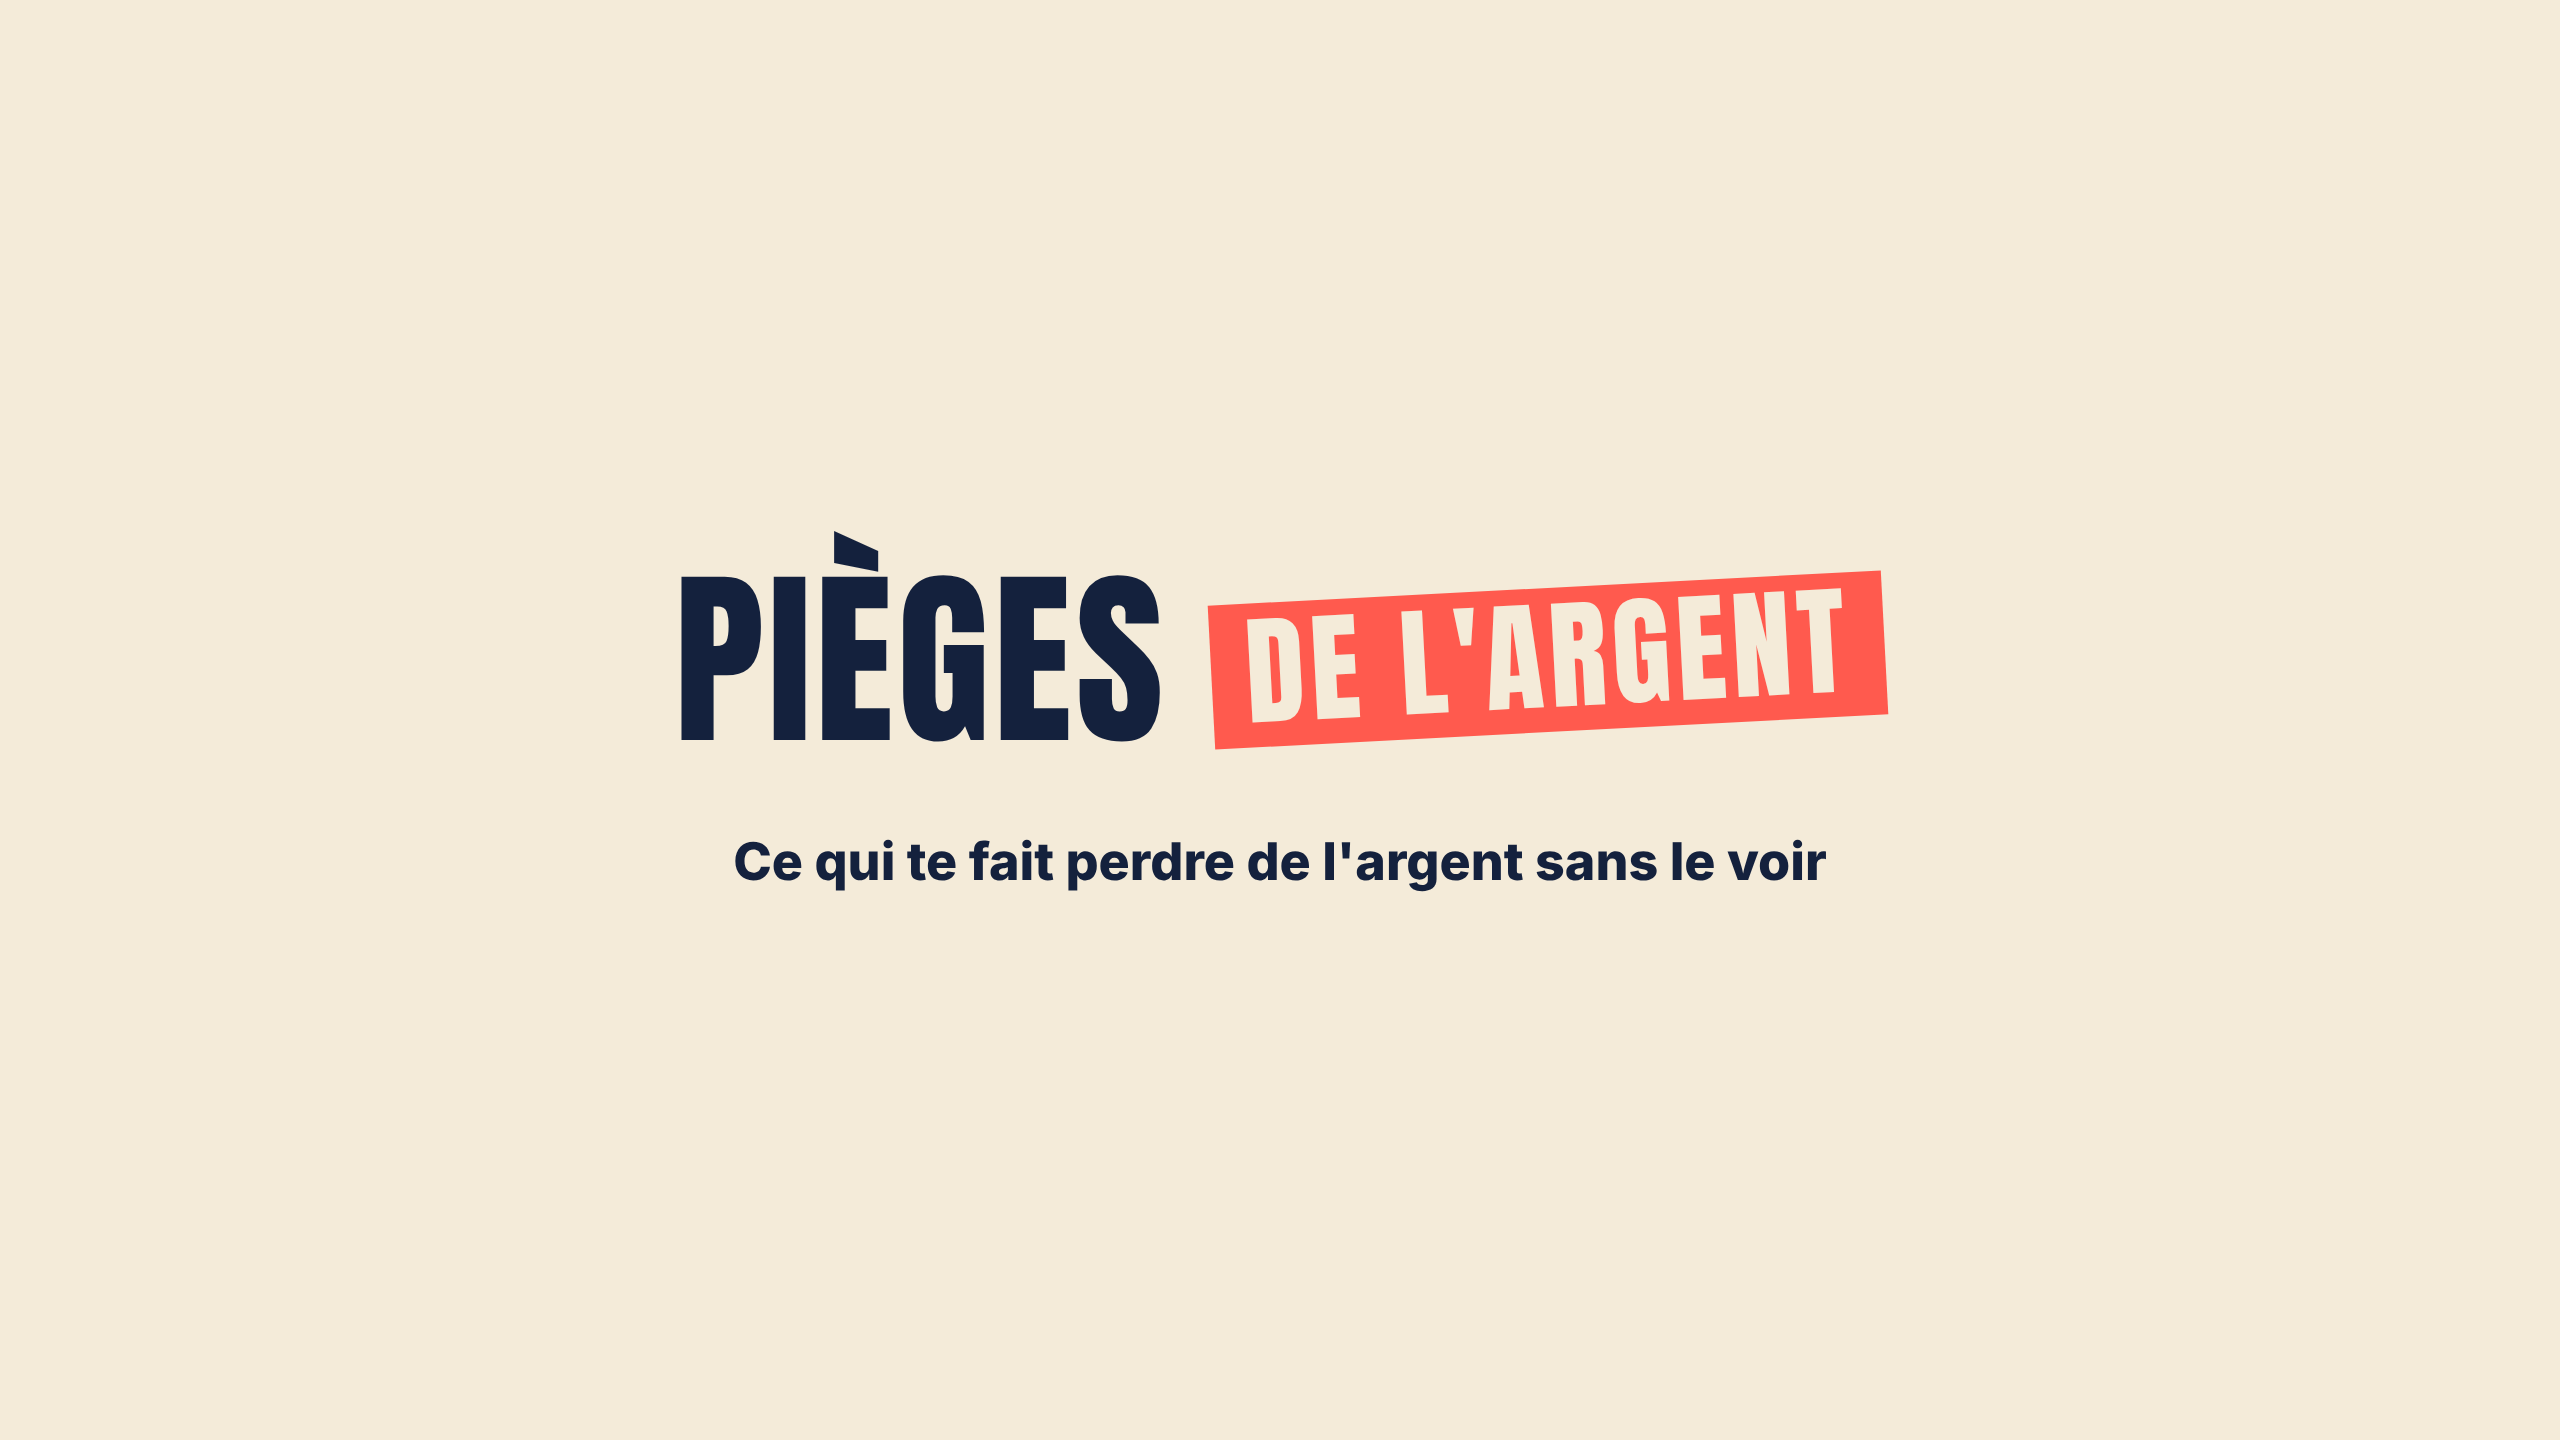
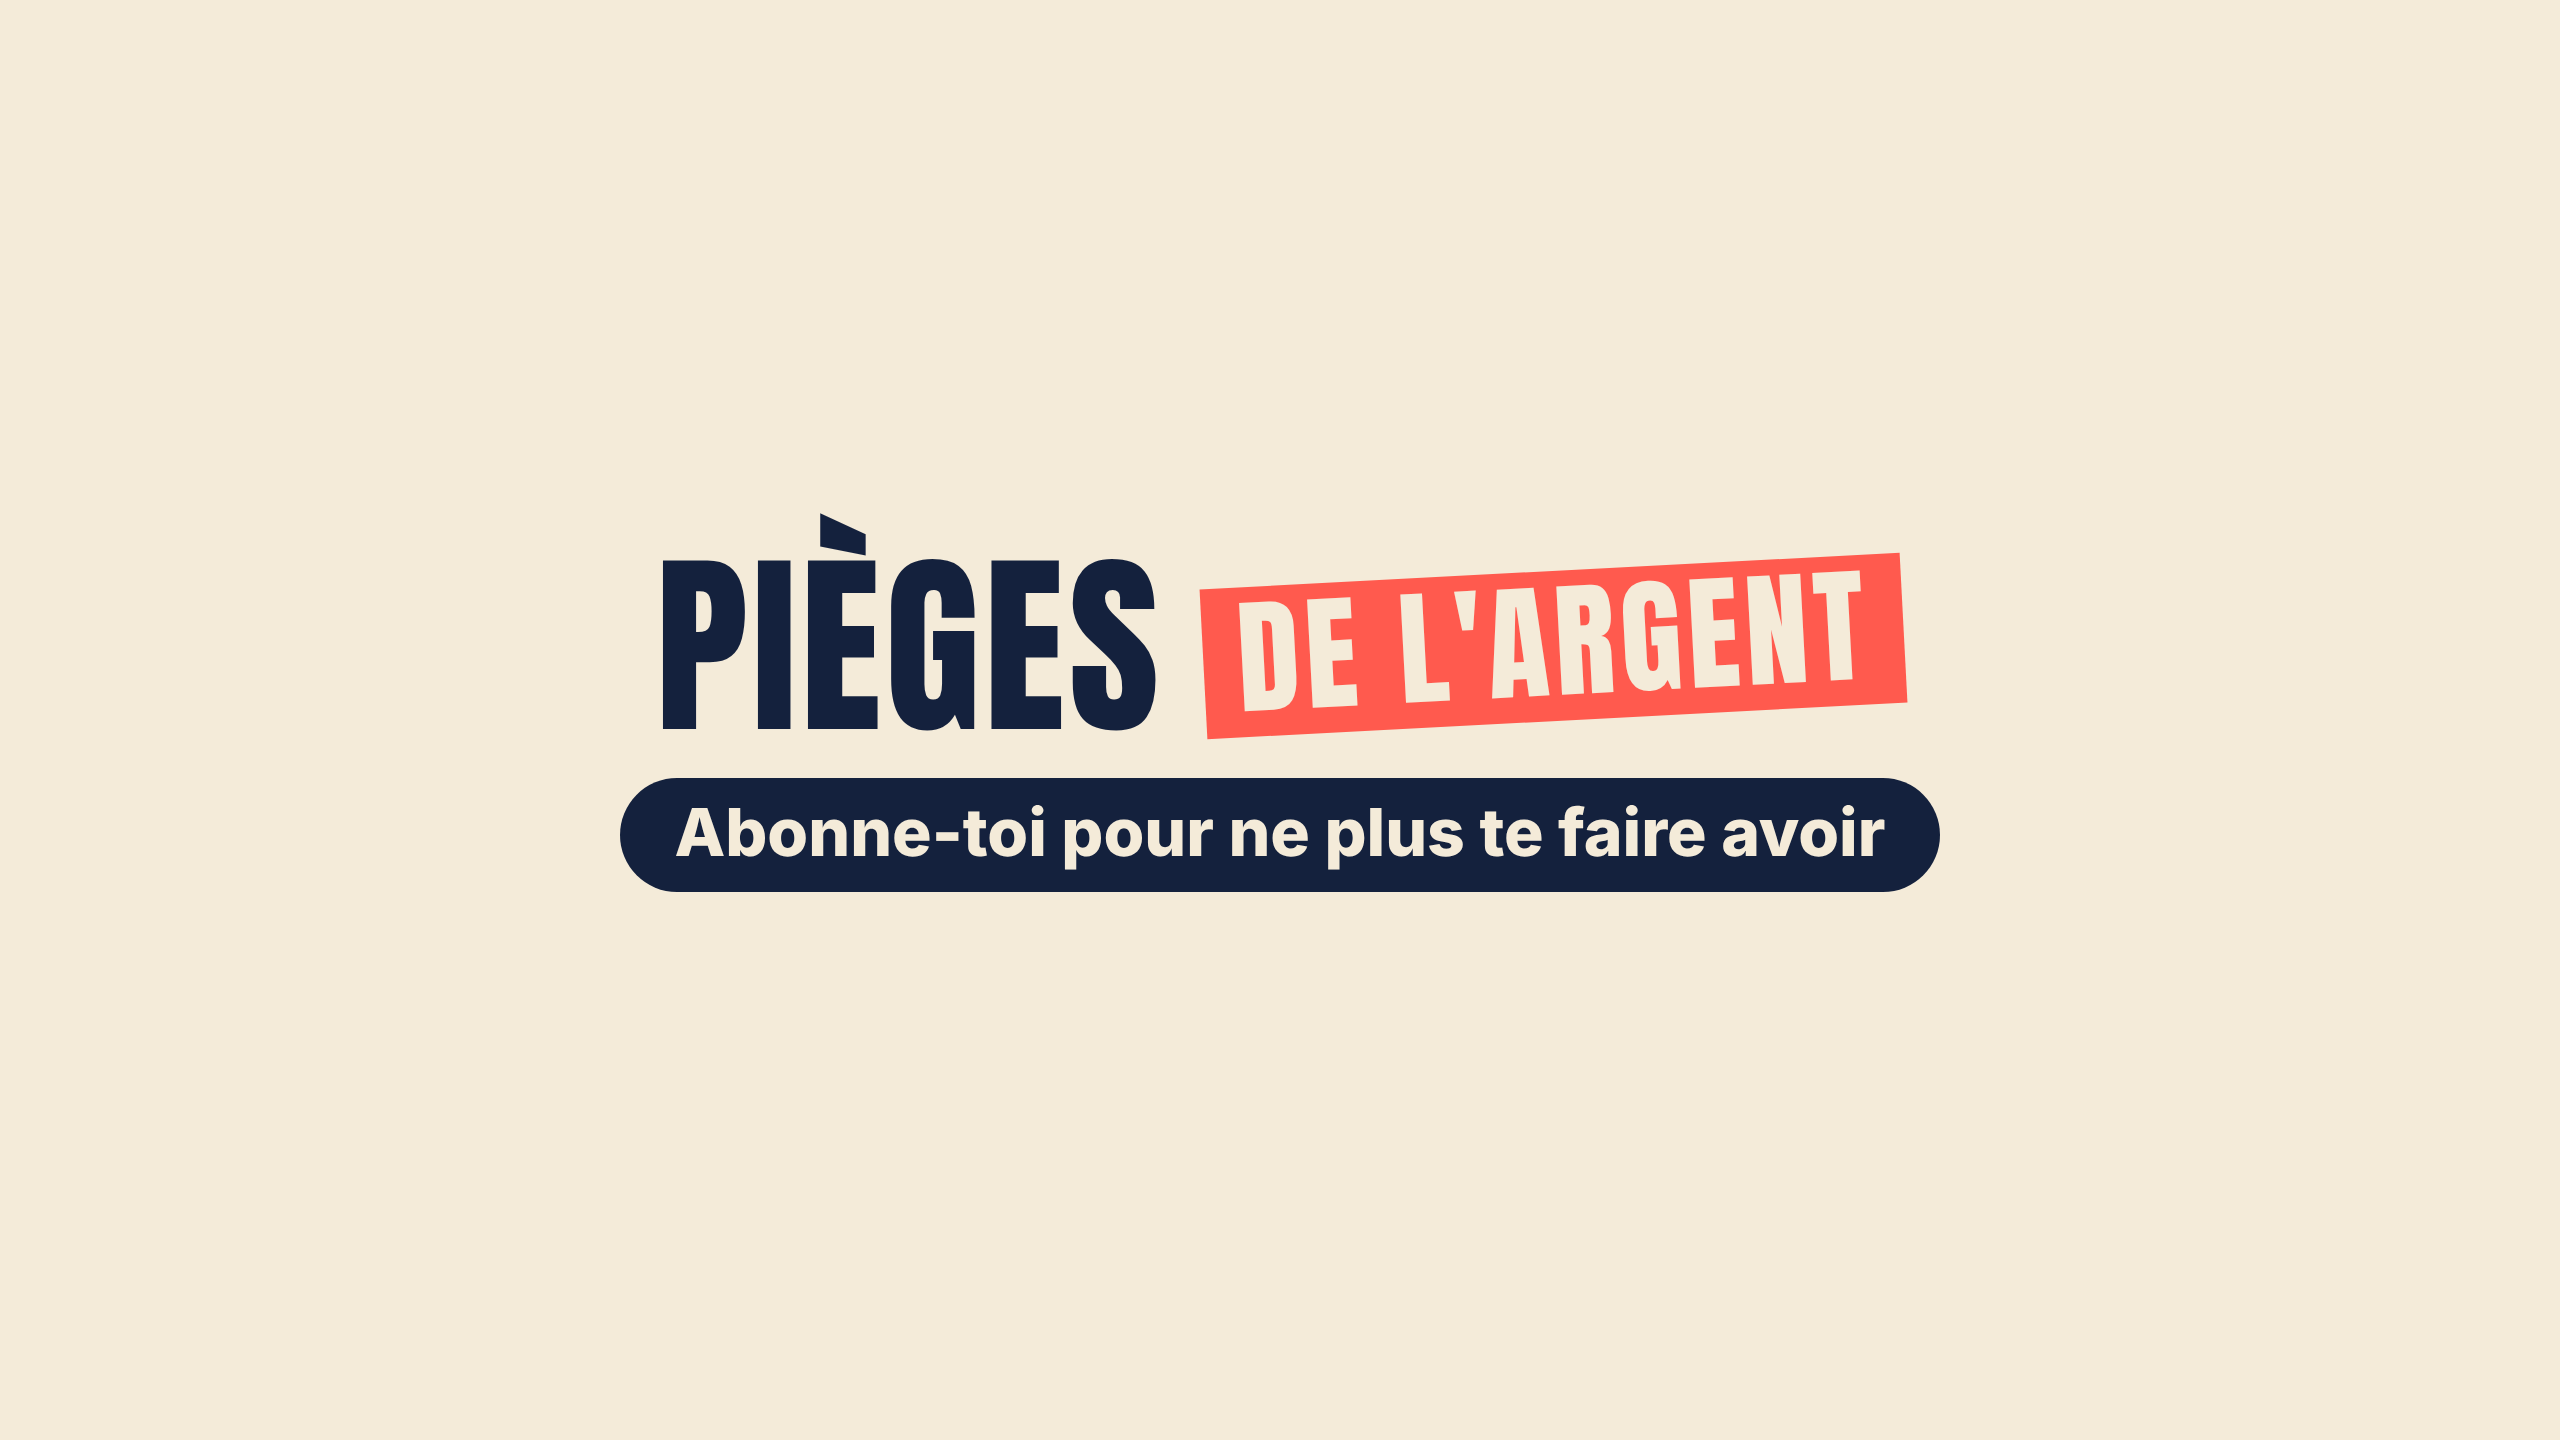
Bannière YouTube : appel à s'abonner, texte agrandi pour les téléphones
Claude-Session: https://claude.ai/code/session_015B49SHX7nMhbWneNMWbFKk

Changed region(s): [[0.2188, 0.3438, 0.7812, 0.625]]

diff --git a/studio/banniere.js b/studio/banniere.js
@@ -8,14 +8,14 @@ const path = require('path');
   await p.evaluate(async () => {
     document.body.style.cssText = 'margin:0;width:2560px;height:1440px';
     document.body.innerHTML = `
-    <div style="position:absolute;inset:0;background:#F4EBD9;display:flex;align-items:center;justify-content:center">
-      <div style="display:flex;align-items:center;gap:44px;transform:translateY(-60px)">
-        <div style="font-family:Anton;font-size:190px;line-height:1;color:#14213D;letter-spacing:4px">PIÈGES</div>
+    <div style="position:absolute;inset:0;background:#F4EBD9;display:flex;flex-direction:column;align-items:center;justify-content:center;gap:34px">
+      <div style="display:flex;align-items:center;gap:40px">
+        <div style="font-family:Anton;font-size:196px;line-height:1;color:#14213D;letter-spacing:4px">PIÈGES</div>
         <div style="padding:8px 34px 16px;background:#FF5A4E;transform:rotate(-3deg)">
-          <div style="font-family:Anton;font-size:120px;line-height:1;color:#F4EBD9;letter-spacing:6px">DE L'ARGENT</div></div>
+          <div style="font-family:Anton;font-size:126px;line-height:1;color:#F4EBD9;letter-spacing:6px">DE L'ARGENT</div></div>
       </div>
-      <div style="position:absolute;top:830px;width:100%;text-align:center;font-family:InterX;font-weight:800;font-size:52px;color:#14213D">
-        Ce qui te fait perdre de l'argent sans le voir</div>
+      <div style="background:#14213D;border-radius:60px;padding:14px 54px 20px;font-family:InterX;font-weight:800;font-size:66px;color:#F4EBD9">
+        Abonne-toi pour ne plus te faire avoir</div>
     </div>`;
     await document.fonts.load('200px Anton'); await document.fonts.load('800 52px InterX'); await document.fonts.ready;
   });
